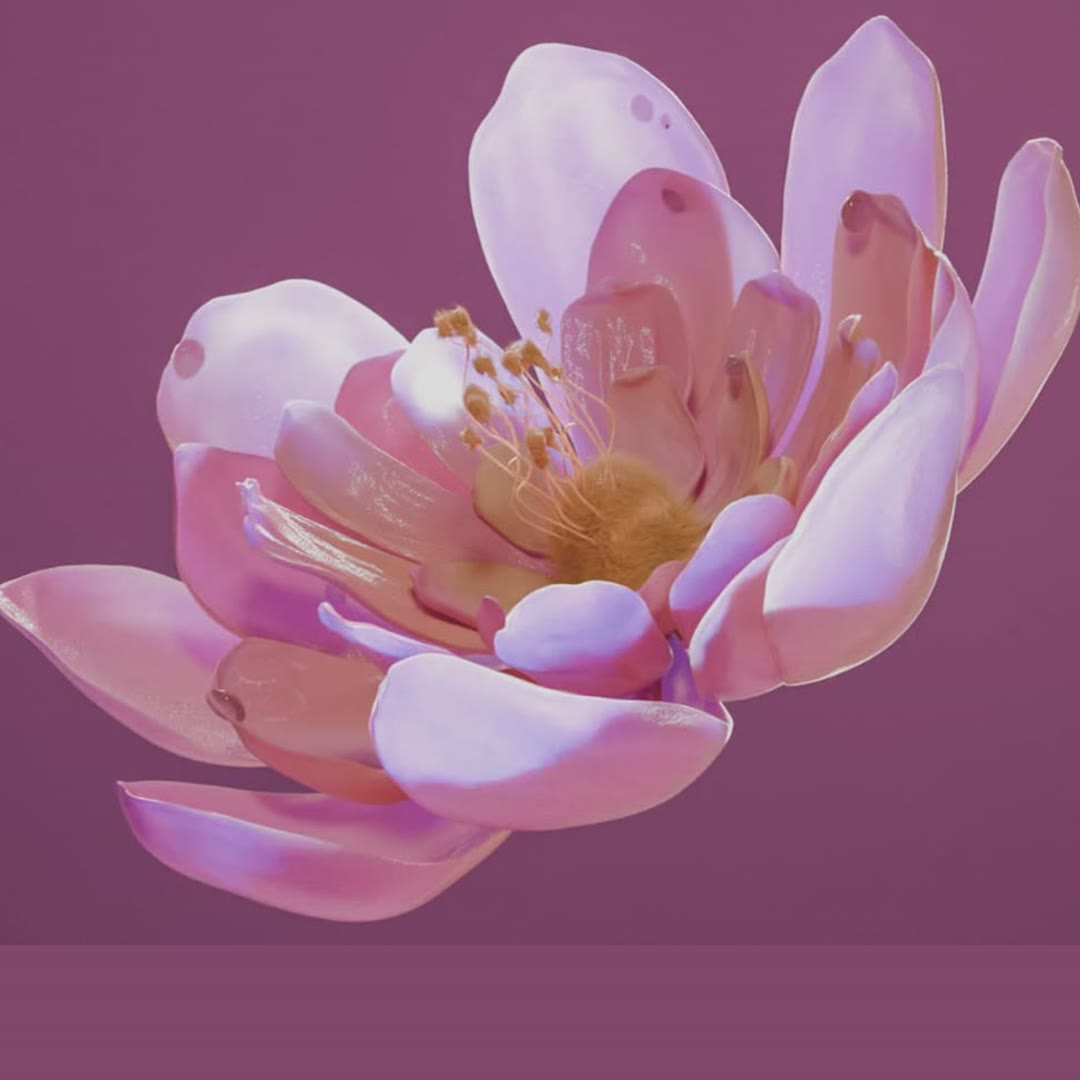
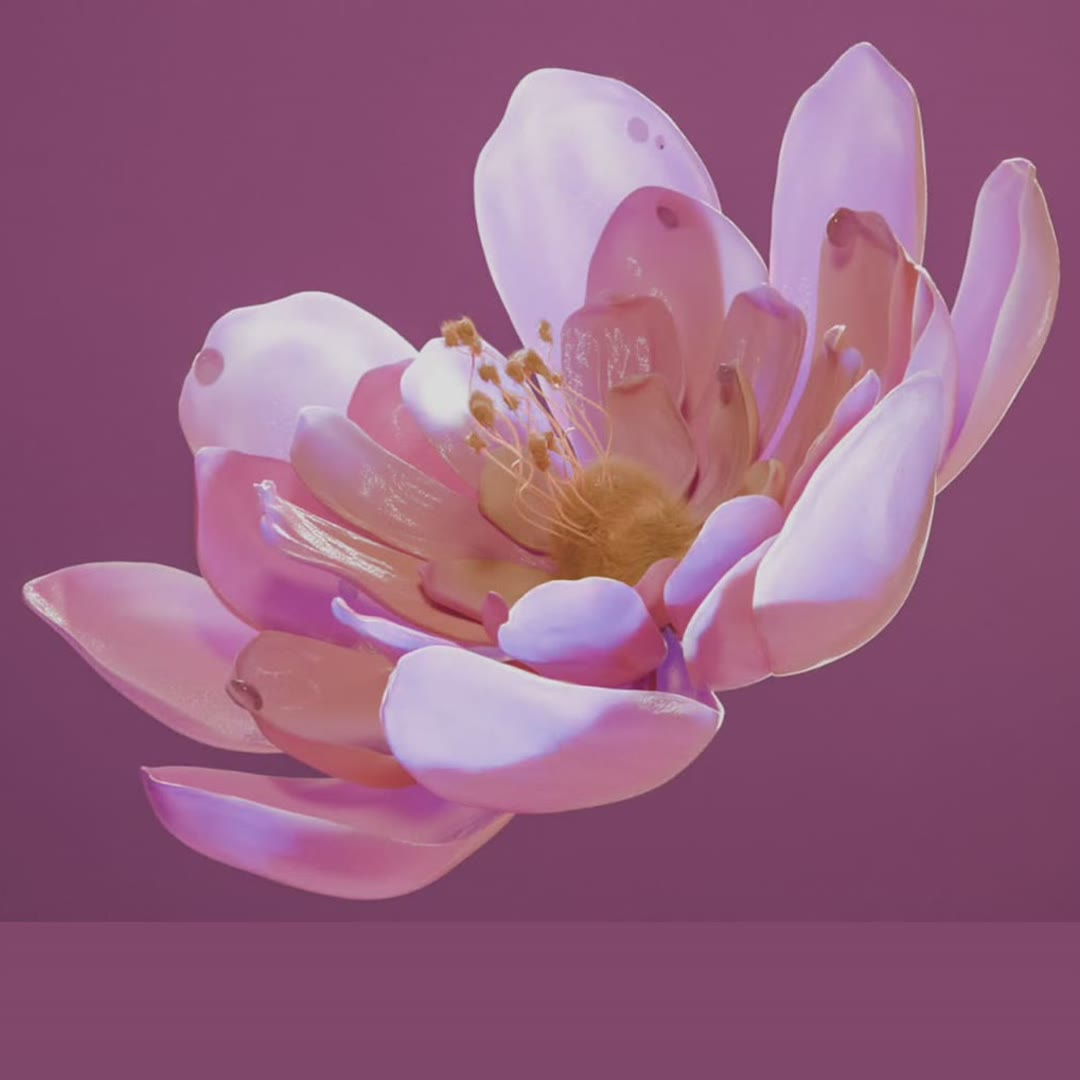
Dial pink flower scale to 1.06x (between too-small 1.0 and too-big 1.12)
Reduce the pink render zoom from 1.12x to 1.06x so the bloom matches the
clay/wireframe extent without overshooting; overlay against the clay
confirms petal spread and stamens align. Bump cache-bust to v6.

diff --git a/index.html b/index.html
@@ -41,9 +41,9 @@
     <div class="hero-track" id="heroTrack">
       <div class="hero-sticky">
         <div class="hero-bg" aria-hidden="true">
-          <div class="hero-layer" style="background-image:url('images/hero.jpeg?v=5')"></div>
-          <div class="hero-layer" style="background-image:url('images/flower-grey.jpeg?v=5')"></div>
-          <div class="hero-layer" style="background-image:url('images/flower-pink.jpeg?v=5')"></div>
+          <div class="hero-layer" style="background-image:url('images/hero.jpeg?v=6')"></div>
+          <div class="hero-layer" style="background-image:url('images/flower-grey.jpeg?v=6')"></div>
+          <div class="hero-layer" style="background-image:url('images/flower-pink.jpeg?v=6')"></div>
         </div>
         <div class="container hero-inner">
           <p class="hero-eyebrow">👋 Hi, my name is</p>
